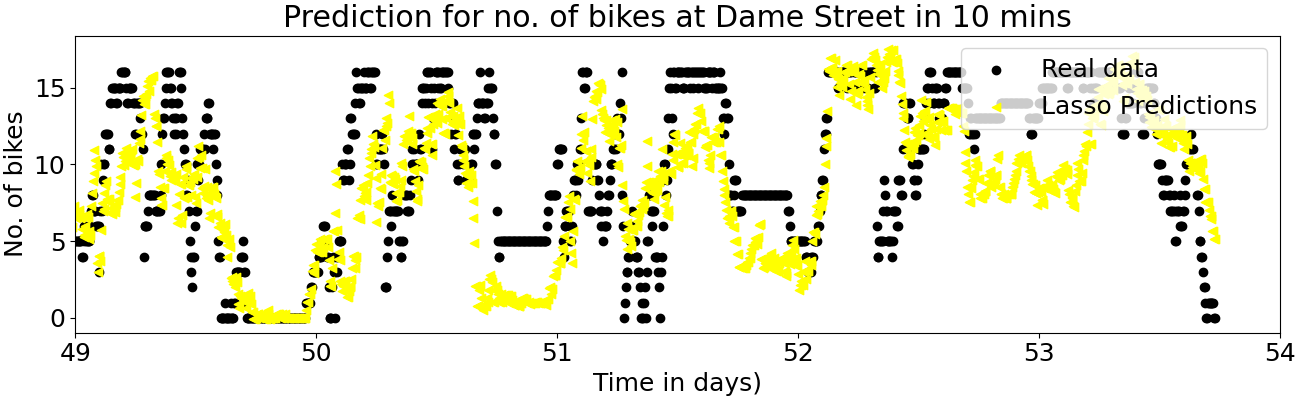
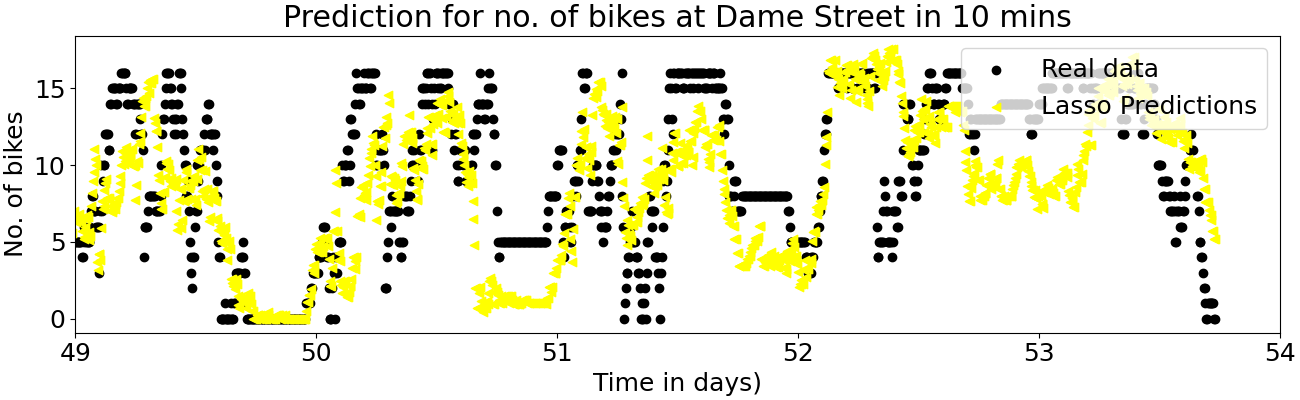
Submitted

diff --git a/main.py b/main.py
@@ -13,8 +13,8 @@ from sklearn.model_selection import KFold
 
 plt.rc('font', size=18); plt.rcParams['figure.constrained_layout.use'] = True
 # read data. column 1 is date/time, col 6 is #bikes
-df = pd.read_csv("Datasets/Avondale_Street_Data.csv", usecols = [2,7], parse_dates=[1])
-# df = pd.read_csv("Datasets/Dame_Street_Data.csv", usecols = [2,7], parse_dates=[1])
+# df = pd.read_csv("Datasets/Avondale_Street_Data.csv", usecols = [2,7], parse_dates=[1])
+df = pd.read_csv("Datasets/Dame_Street_Data.csv", usecols = [2,7], parse_dates=[1])
 print("DF.HEAD ->")
 print(df.head())
 
@@ -239,9 +239,11 @@ def apply_models(q,dt,lag,y,t,c_value,title, plot):
     dummy_reg.fit(XX[train], yy[train])
     
 
-    # print("Intercepts")
-    # print(ridge_model.intercept_, ridge_model.coef_)
-    # print(lasso_model.intercept_, lasso_model.coef_)
+    print("\n\nIntercept and Coefficient of Ridge ->")
+    print(ridge_model.intercept_, ridge_model.coef_)
+    
+    print("\n\nIntercept and Coefficient of Lasso ->")
+    print(lasso_model.intercept_, lasso_model.coef_)
     
 
     
@@ -329,17 +331,14 @@ plot=True
 
 
 
-# prediction using short−term trend
-# stand_name = 'Dame Street'
-stand_name = 'Avondale_Street_Data'
+
+stand_name = 'Dame Street'
+# stand_name = 'Avondale_Street_Data'
 
 apply_models(q=2,dt=dt,lag=3,y=y, t=t, c_value=0.5,title= "Prediction for no. of bikes at " +stand_name + " in 10 mins", plot=True)
 
-# prediction using short−term trend
-# features: [y^(k-3-q), y^(k-2-q), y^(k-1-q)]
+
 apply_models(q=6,dt=dt,lag=3,y=y,t=t, c_value=0.5,title= "Prediction for no. of bikes at " +stand_name + " in 30 mins", plot=True)
 
-# prediction using short−term trend
-# features: [y^(k-3-q), y^(k-2-q), y^(k-1-q)]
 apply_models(q=12,dt=dt,lag=3,y=y, t=t, c_value=0.5,title= "Prediction for no. of bikes at " +stand_name + " in 1 hour", plot=True)
 
